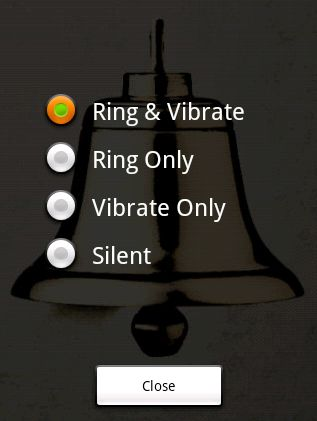
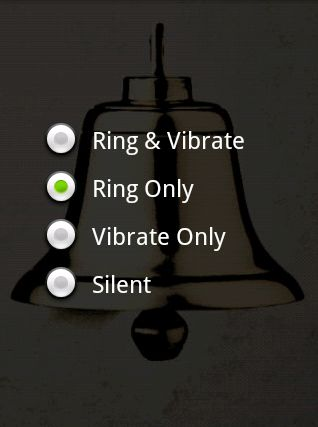
Close on selection, add help page.

diff --git a/src/com/swwomm/ringtoggle/RingToggle.java b/src/com/swwomm/ringtoggle/RingToggle.java
@@ -11,9 +11,9 @@ import android.net.Uri;
 import android.os.Bundle;
 import android.view.Menu;
 import android.view.MenuItem;
+import android.view.MotionEvent;
 import android.view.View;
-import android.view.View.OnClickListener;
-import android.widget.Button;
+import android.view.View.OnTouchListener;
 import android.widget.RadioButton;
 import android.widget.RadioGroup;
 import android.widget.RadioGroup.OnCheckedChangeListener;
@@ -23,6 +23,7 @@ public class RingToggle extends Activity {
 	protected static final String ABOUT_PAGE = "http://code.google.com/p/ringtoggle/wiki/About";
 	protected static final String VERSION_FRAGMENT = "#Version_";
 	
+	protected boolean m_ignoreChange;
 	protected BroadcastReceiver m_ringerModeReceiver;
 	
     @Override
@@ -30,26 +31,54 @@ public class RingToggle extends Activity {
         super.onCreate(savedInstanceState);
         setContentView(R.layout.main);
         
+        // close when background touched
+        View view = (View) findViewById(R.id.view);
+        view.setOnTouchListener(new OnTouchListener() {
+			public boolean onTouch(View v, MotionEvent event) {
+				RingToggle.this.finish();
+				return false;
+			}
+        });
+        
         // add ring-mode radio-group onchange listener
         RadioGroup group = (RadioGroup) findViewById(R.id.menu);
         group.setOnCheckedChangeListener(new OnCheckedChangeListener() {
 			public void onCheckedChanged(RadioGroup group, int checkedId) {
+				if (m_ignoreChange)
+					return;
+				
 				switch (checkedId) {
 					case R.id.ring_and_vibrate: ringAndVibrate(); break;
 					case R.id.ring: ring(); break;
 					case R.id.vibrate: vibrate(); break;
 					case R.id.silent: silent(); break;
 				}
+				
+		        RadioButton radio = (RadioButton) findViewById(checkedId);
+		        if (radio != null)
+		        	radio.setTextSize(30);
+				
+				RingToggle.this.close();
 			}
         });
         
-        // add finish button onclick listener
-        Button button = (Button) findViewById(R.id.finish);
-        button.setOnClickListener(new OnClickListener() {
-			public void onClick(View v) {
-				RingToggle.this.finish();
-			}
-        });
+        // add listener to each radio button to close app when clicked
+        //(even when button is already selected)
+        for (int i = 0, l = group.getChildCount(); i < l; i++) {
+	        RadioButton radio = (RadioButton) group.getChildAt(i);
+	        radio.setOnTouchListener(new OnTouchListener() {
+				public boolean onTouch(View v, MotionEvent event) {
+			        RadioButton radio = (RadioButton) v;
+					if (!radio.isChecked())
+						return false;
+					
+		        	radio.setTextSize(30);
+					RingToggle.this.close();
+					
+					return false;
+				}
+	        });
+        }
     }
     
 	@Override
@@ -85,6 +114,10 @@ public class RingToggle extends Activity {
     public boolean onCreateOptionsMenu(Menu menu) {
         super.onCreateOptionsMenu(menu);
         
+        MenuItem help = menu.add(R.string.help);
+        help.setIcon(R.drawable.help);
+        help.setIntent(new Intent(this, Help.class));
+        
         MenuItem about = menu.add(R.string.about);
         about.setIcon(R.drawable.about);
         about.setIntent(new Intent(Intent.ACTION_VIEW, getAboutPageUri()));
@@ -105,7 +138,9 @@ public class RingToggle extends Activity {
     protected void updateRadioGroup() {
         int checkedId = current();
         RadioButton checked = (RadioButton) findViewById(checkedId);
+        m_ignoreChange = true;
         checked.setChecked(true);
+        m_ignoreChange = false;
     }
 
 	protected int current() {
@@ -148,5 +183,16 @@ public class RingToggle extends Activity {
 		audio.setRingerMode(AudioManager.RINGER_MODE_SILENT);
 		audio.setVibrateSetting(AudioManager.VIBRATE_TYPE_RINGER, AudioManager.VIBRATE_SETTING_OFF);
 		audio.setVibrateSetting(AudioManager.VIBRATE_TYPE_NOTIFICATION, AudioManager.VIBRATE_SETTING_OFF);
+    }
+    
+    protected void close() {
+    	new Thread() {
+			public void run() {
+				try {
+					Thread.sleep(500);
+				} catch (InterruptedException e) {}
+				RingToggle.this.finish();
+			}
+    	}.start();
     }
 }

diff --git a/src/com/swwomm/ringtoggle/R.java b/src/com/swwomm/ringtoggle/R.java
@@ -13,23 +13,27 @@ public final class R {
     public static final class drawable {
         public static final int about=0x7f020000;
         public static final int background=0x7f020001;
-        public static final int icon=0x7f020002;
+        public static final int help=0x7f020002;
+        public static final int icon=0x7f020003;
     }
     public static final class id {
-        public static final int finish=0x7f050005;
-        public static final int menu=0x7f050000;
-        public static final int ring=0x7f050002;
-        public static final int ring_and_vibrate=0x7f050001;
-        public static final int silent=0x7f050004;
-        public static final int vibrate=0x7f050003;
+        public static final int menu=0x7f050001;
+        public static final int ring=0x7f050003;
+        public static final int ring_and_vibrate=0x7f050002;
+        public static final int silent=0x7f050005;
+        public static final int vibrate=0x7f050004;
+        public static final int view=0x7f050000;
     }
     public static final class layout {
-        public static final int main=0x7f030000;
+        public static final int help=0x7f030000;
+        public static final int main=0x7f030001;
     }
     public static final class string {
         public static final int about=0x7f040006;
         public static final int app_name=0x7f040000;
         public static final int finish=0x7f040005;
+        public static final int help=0x7f040007;
+        public static final int help_text=0x7f040008;
         public static final int ring=0x7f040002;
         public static final int ring_and_vibrate=0x7f040001;
         public static final int silent=0x7f040004;

diff --git a/src/com/swwomm/ringtoggle/Help.java b/src/com/swwomm/ringtoggle/Help.java
@@ -1,0 +1,14 @@
+package com.swwomm.ringtoggle;
+
+import android.app.Activity;
+import android.os.Bundle;
+
+public class Help extends Activity {
+	
+    @Override
+    public void onCreate(Bundle savedInstanceState) {
+        super.onCreate(savedInstanceState);
+        setContentView(R.layout.help);
+    }
+
+}
